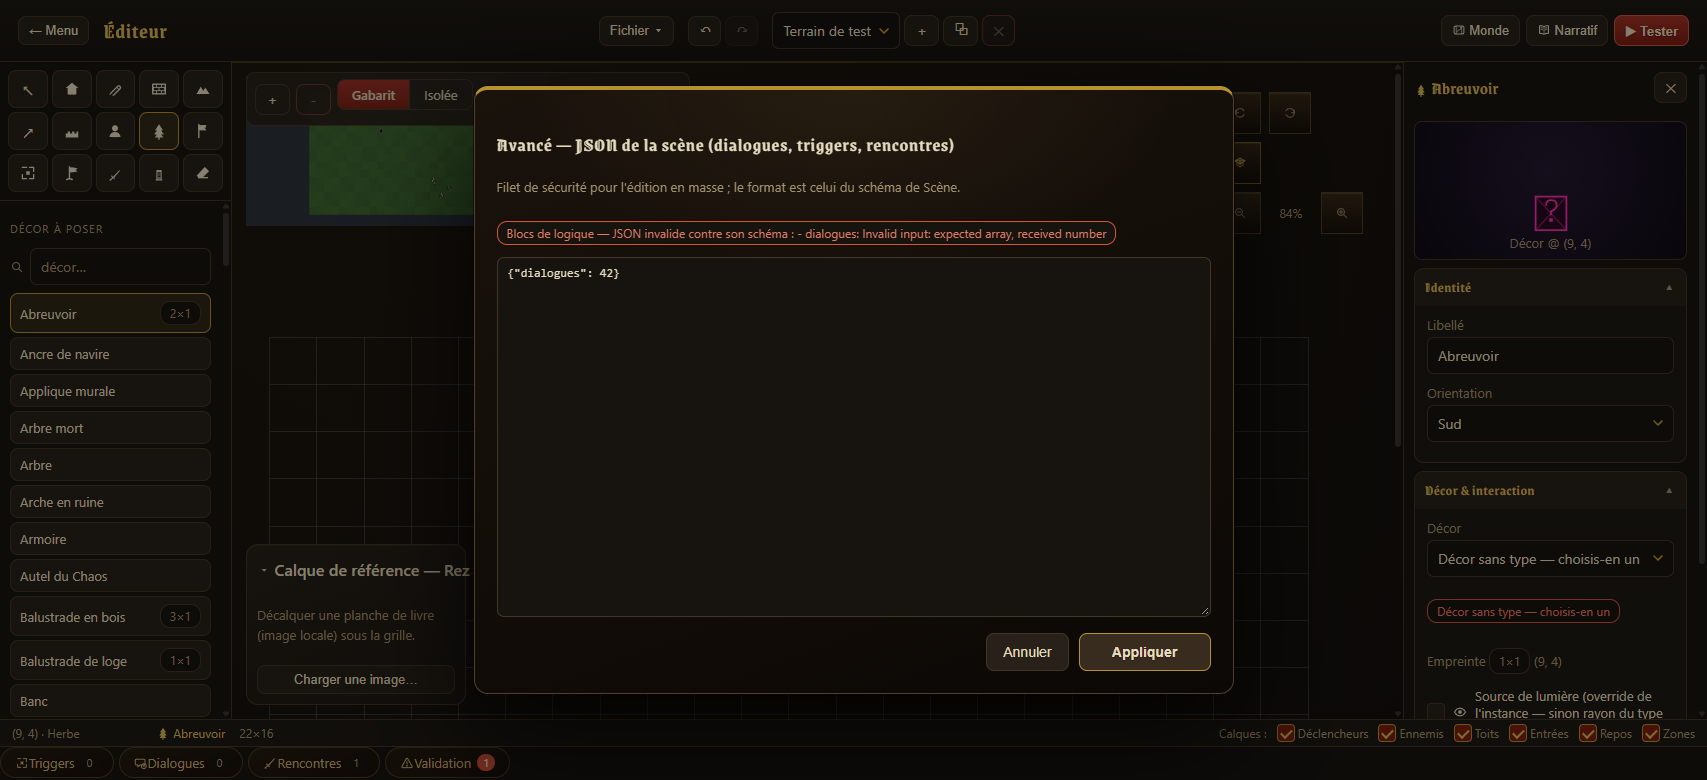
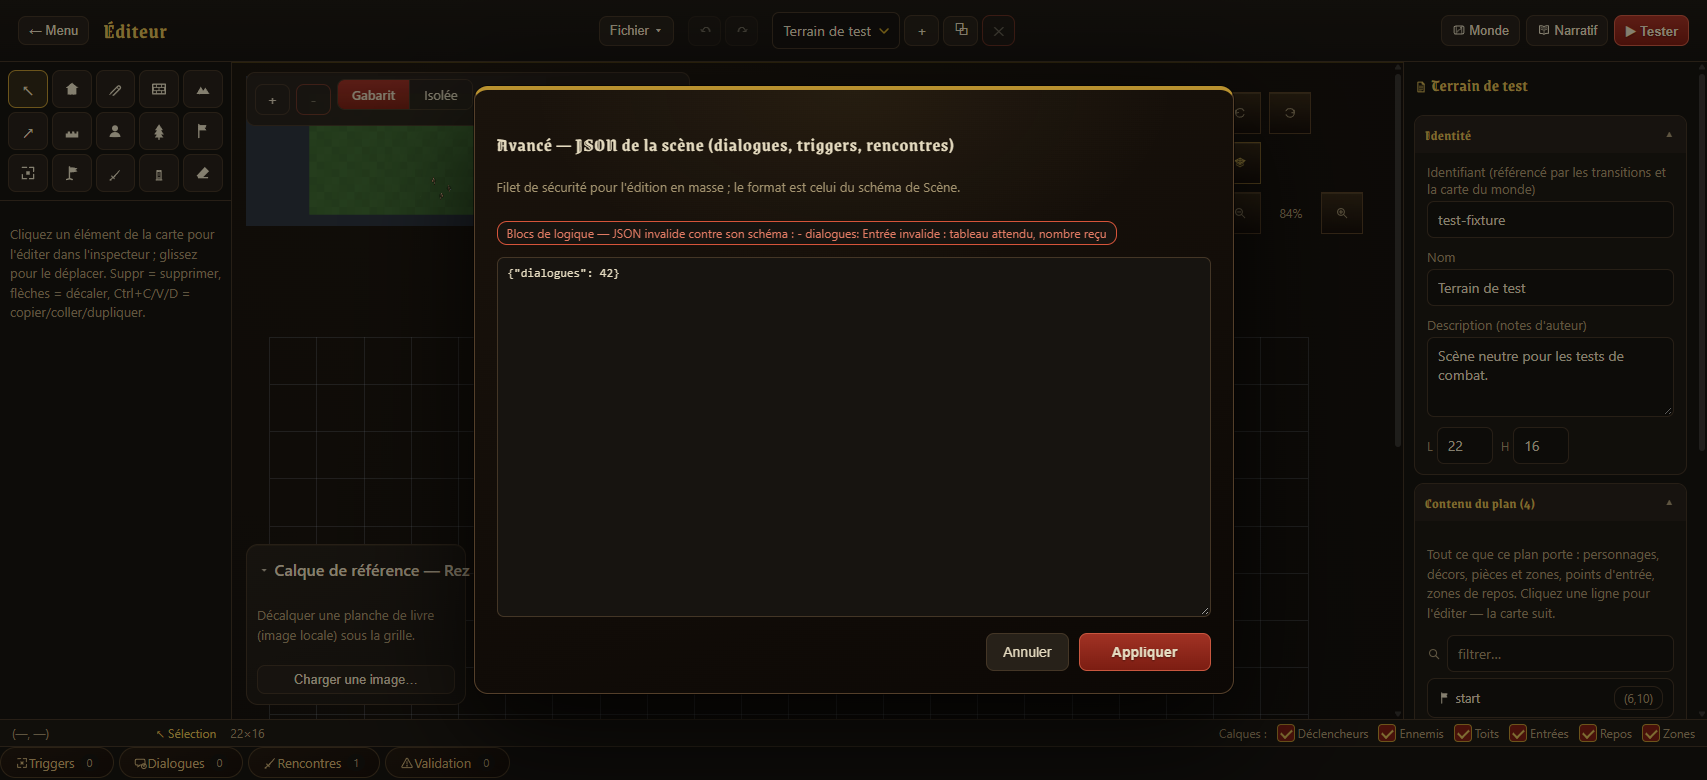
fix(schemas): refs #1588 — les refus de schéma parlent français, locale zod posée à la racine
La carte d'erreurs FR de zod (`z.locales.fr`) est posée UNE fois (`grammaire/locale-fr.ts`),
importée pour son effet par `grammaire/ref.ts`, racine mesurée du graphe d'exécution des schémas
(`clotureDImports` gagne `typesEffaces` : un `import type` est effacé à la compilation, il ne
porte aucune langue). Tout refus — Compendium au save, modale « Avancé », portes de projet — sort
en français, chemin et options attendues conservés. `gameOpSchema` REPORTE l'issue du payload
(`...issue`, code compris) au lieu de l'aplatir en `custom` ; seul son message gagne le préfixe
maison `GameOp « op » : `. Les attendus de test passent de la PHRASE de zod (propriété de la
locale) au CODE d'issue + la donnée nommée (`fautesCodees`) ; les commentaires qui recopiaient la
prose anglaise de la dépendance citent le code d'issue.

Garde de classe (`refus-en-francais.test.ts`, volet 3) : tout fichier de `src/data/schemas/**`
important zod en VALEUR atteint la locale (128 porteurs, plancher anti-faux-vert > 100 ; 127
orphelins si l'ancre est retirée). Volet « Avancé » mesuré sur son chemin réel
(`SCHEMA_BLOCS_AVANCES` + `formatZodError`, `Editor.tsx:910`).

Doc recette : cold-start du chunk éditeur au premier accès d'une session de dev (~20 s).
[…]

diff --git a/src/data/schemas/defs-scenes/projet-schema.test.ts b/src/data/schemas/defs-scenes/projet-schema.test.ts
@@ -60,6 +60,22 @@ const fautes = (valeur: unknown, schema: typeof projetSchema | typeof narratifSc
   return res.success ? [] : res.error.issues.map((i) => `${i.path.join('.')} :: ${i.message}`);
 };
 
+/**
+ * Chemin + CODE d'issue + la donnée que l'issue NOMME (clé en trop, options attendues, borne). C'est
+ * la forme STABLE d'un refus de la dépendance : le `message`, lui, appartient à la locale FR
+ * (`grammaire/locale-fr.ts`) et rote à chaque montée de zod. `fautes` reste la porte des messages
+ * MAISON, que le dépôt écrit et tient.
+ */
+const fautesCodees = (valeur: unknown, schema: typeof projetSchema = projetSchema) => {
+  const res = schema.safeParse(valeur);
+  expect(res.success).toBe(false);
+  return res.success ? [] : res.error.issues.map((i) => {
+    const brut = i as unknown as Record<string, unknown>;
+    const nommee = brut.keys ?? brut.values ?? brut.maximum ?? brut.minimum;
+    return `${i.path.join('.')} :: ${i.code}${nommee === undefined ? '' : ` ${JSON.stringify(nommee)}`}`;
+  });
+};
+
 describe('projetSchema — la FORME que voit le seam (avant normalizeScene/resolvePortRef)', () => {
   it('un projet minimal parse : les collections que `normalizeScene` comble sont OPTIONNELLES', () => {
     const res = projetSchema.safeParse(projet());
@@ -81,8 +97,8 @@ describe('projetSchema — la FORME que voit le seam (avant normalizeScene/resol
     const entite = (over: Jouet) => [sceneMinimale({ entities: [{ id: 'coffre', kind: 'prop', pos: { x: 1, y: 1 }, ref: 'coffre', ...over }] })];
 
     expect(projetSchema.safeParse(projet({ scenes: entite({ usable: { assise: true, actions: [{ id: 'fouiller', flow: FLOW, unique: true }] } }) })).success).toBe(true);
-    expect(fautes(projet({ scenes: entite({ interact: { flow: FLOW } }) })))
-      .toEqual(['scenes.0.entities.0 :: Unrecognized key: "interact"']);
+    expect(fautesCodees(projet({ scenes: entite({ interact: { flow: FLOW } }) })))
+      .toEqual(['scenes.0.entities.0 :: unrecognized_keys ["interact"]']);
     expect(fautes(projet({ scenes: entite({ usable: { actions: [{ id: 'fouiller', flow: FLOW }, { id: 'fouiller', flow: FLOW }] } }) })))
       .toEqual([expect.stringMatching(/^scenes\.0\.entities\.0\.usable :: usable\.actions : deux actions partagent le même `id`/)]);
     // `assise` ne se DÉSACTIVE pas par `false` : le fait est présent ou absent, jamais nié.
@@ -113,22 +129,22 @@ describe('projetSchema — la FORME que voit le seam (avant normalizeScene/resol
    * nominatif, au chemin — la garde ne dit pas « invalide », elle dit OÙ.
    */
   it('une pente de RÉFÉRENCE hors plage est REFUSÉE au chemin, aux DEUX bornes', () => {
-    const pente = (deg: number) => fautes(projet({ scenes: [sceneMinimale({ roofDefaults: { material: 'toit-ardoise', pitchDeg: deg, riseMaxStoreys: 1 } })] }));
-    expect(pente(90)).toEqual([`scenes.0.roofDefaults.pitchDeg :: Too big: expected number to be <=${PENTE_TOIT_DEG.max}`]);
-    expect(pente(0)).toEqual([`scenes.0.roofDefaults.pitchDeg :: Too small: expected number to be >=${PENTE_TOIT_DEG.min}`]);
+    const pente = (deg: number) => fautesCodees(projet({ scenes: [sceneMinimale({ roofDefaults: { material: 'toit-ardoise', pitchDeg: deg, riseMaxStoreys: 1 } })] }));
+    expect(pente(90)).toEqual([`scenes.0.roofDefaults.pitchDeg :: too_big ${PENTE_TOIT_DEG.max}`]);
+    expect(pente(0)).toEqual([`scenes.0.roofDefaults.pitchDeg :: too_small ${PENTE_TOIT_DEG.min}`]);
     expect(projetSchema.safeParse(projet({ scenes: [sceneMinimale({ roofDefaults: { material: 'toit-ardoise', pitchDeg: PENTE_TOIT_DEG.max, riseMaxStoreys: 1 } })] })).success).toBe(true);
   });
 
   it('une pente POSÉE sur un CORPS suit la même plage, au chemin du corps', () => {
     const corps = [{ id: 'corps-1', storeys: [], facades: [], masses: [], roofDefaults: { pitchDeg: 90 } }];
-    expect(fautes(projet({ scenes: [sceneMinimale({ architecture: corps })] }))).toEqual([
-      `scenes.0.architecture.0.roofDefaults.pitchDeg :: Too big: expected number to be <=${PENTE_TOIT_DEG.max}`,
+    expect(fautesCodees(projet({ scenes: [sceneMinimale({ architecture: corps })] }))).toEqual([
+      `scenes.0.architecture.0.roofDefaults.pitchDeg :: too_big ${PENTE_TOIT_DEG.max}`,
     ]);
   });
 
   it('une clé inconnue sur une scène est REFUSÉE (schéma STRICT)', () => {
-    expect(fautes(projet({ scenes: [sceneMinimale({ inventedField: 'poison' })] }))).toEqual([
-      'scenes.0 :: Unrecognized key: "inventedField"',
+    expect(fautesCodees(projet({ scenes: [sceneMinimale({ inventedField: 'poison' })] }))).toEqual([
+      'scenes.0 :: unrecognized_keys ["inventedField"]',
     ]);
   });
 
@@ -147,19 +163,19 @@ describe('projetSchema — la FORME que voit le seam (avant normalizeScene/resol
     expect(projetSchema.safeParse(avecStatbloc(statblocMinimal({ char: { 'capacite-de-combat': 30, M: 4, B: 5 } }))).success).toBe(true);
     expect(projetSchema.safeParse(avecStatbloc(statblocMinimal({ char: {} }))).success).toBe(true);
     // Une clé HORS canon est nommée, jamais avalée.
-    expect(fautes(avecStatbloc(statblocMinimal({ char: { ZZZZ: 7 } })))).toEqual([
-      'scenes.0.entities.0.statblock.char :: Unrecognized key: "ZZZZ"',
+    expect(fautesCodees(avecStatbloc(statblocMinimal({ char: { ZZZZ: 7 } })))).toEqual([
+      'scenes.0.entities.0.statblock.char :: unrecognized_keys ["ZZZZ"]',
     ]);
     // La coquille d'authoring la plus plausible — une Caractéristique mal orthographiée — mord aussi.
-    expect(fautes(avecStatbloc(statblocMinimal({ char: { endurence: 35 } })))).toEqual([
-      'scenes.0.entities.0.statblock.char :: Unrecognized key: "endurence"',
+    expect(fautesCodees(avecStatbloc(statblocMinimal({ char: { endurence: 35 } })))).toEqual([
+      'scenes.0.entities.0.statblock.char :: unrecognized_keys ["endurence"]',
     ]);
   });
 
   it('le statbloc embarqué DOIT s’annoncer : `type: \'statblock\'` (#1467 L1b)', () => {
     const { type: _sans, ...muet } = statblocMinimal();
-    expect(fautes(avecStatbloc(muet))).toEqual([
-      'scenes.0.entities.0.statblock.type :: Invalid input: expected "statblock"',
+    expect(fautesCodees(avecStatbloc(muet))).toEqual([
+      'scenes.0.entities.0.statblock.type :: invalid_value ["statblock"]',
     ]);
   });
 });
@@ -325,10 +341,10 @@ describe('projetSchema — les quatre sémantiques du seam, chacune NOMMÉE', ()
   });
 
   it('(e) le document DOIT s’annoncer : `type: \'projet\'`, et chaque scène EMBARQUÉE aussi (#1552)', () => {
-    expect(fautes(sans('type'))).toEqual(['type :: Invalid input: expected "projet"']);
+    expect(fautesCodees(sans('type'))).toEqual(['type :: invalid_value ["projet"]']);
     const { type: _muette, ...sceneMuette } = sceneMinimale();
-    expect(fautes(projet({ scenes: [sceneMuette] }))).toEqual([
-      'scenes.0.type :: Invalid input: expected "scene"',
+    expect(fautesCodees(projet({ scenes: [sceneMuette] }))).toEqual([
+      'scenes.0.type :: invalid_value ["scene"]',
     ]);
   });
 
@@ -403,7 +419,7 @@ describe('projetSchema — le document RÉEL, ses FK et son enveloppe (sondes du
       expect(fautes(sansCle(cle)), `« ${cle} » amputé`).toEqual([expect.stringMatching(new RegExp(`^${cle} :: `))]);
     }
     expect(fautes({ ...reel(), label: '' })).toEqual([expect.stringMatching(/^label :: /)]);
-    expect(fautes({ ...reel(), type: 'scene' })).toEqual(['type :: Invalid input: expected "projet"']);
+    expect(fautesCodees({ ...reel(), type: 'scene' })).toEqual(['type :: invalid_value ["projet"]']);
   });
 
   it('PROVENANCE réelle : la Diligence cite son folio ; sans provenance c’est rouge, les DEUX ensemble passent', () => {
@@ -414,12 +430,12 @@ describe('projetSchema — le document RÉEL, ses FK et son enveloppe (sondes du
   });
 
   it('SCEAU sur la donnée réelle : `schema` non courant, clé inconnue et scène muette sont refusés', () => {
-    expect(fautes({ ...reel(), schema: 6 })).toEqual([`schema :: Invalid input: expected ${SCHEMA_PROJET}`]);
+    expect(fautesCodees({ ...reel(), schema: 6 })).toEqual([`schema :: invalid_value [${SCHEMA_PROJET}]`]);
     // Chemin VIDE : la clé inconnue est rapportée à la RACINE du document.
-    expect(fautes({ ...reel(), champInconnu: 1 })).toEqual([' :: Unrecognized key: "champInconnu"']);
+    expect(fautesCodees({ ...reel(), champInconnu: 1 })).toEqual([' :: unrecognized_keys ["champInconnu"]']);
     const d = reel();
     const { type: _muette, ...sceneMuette } = (d.scenes as Jouet[])[0];
-    expect(fautes({ ...d, scenes: [sceneMuette] })).toEqual(['scenes.0.type :: Invalid input: expected "scene"']);
+    expect(fautesCodees({ ...d, scenes: [sceneMuette] })).toEqual(['scenes.0.type :: invalid_value ["scene"]']);
   });
 });
 

diff --git a/src/data/schemas/refus-en-francais.test.ts b/src/data/schemas/refus-en-francais.test.ts
@@ -1,0 +1,85 @@
+/**
+ * LANGUE des refus de schéma (#1588) — règle 4 : l'écran est en français, et un refus de schéma EST
+ * ce que l'auteur lit quand le Compendium ou l'éditeur rejettent sa saisie. La carte d'erreurs FR de
+ * zod est posée UNE fois (`grammaire/locale-fr.ts`).
+ *
+ * Trois volets, chacun sur le chemin RÉEL de son cas :
+ *  - la porte par FICHIER (`validateDataset`) — le refus que le Compendium rend au save ;
+ *  - la porte de la modale « Avancé » de l'éditeur (`SCHEMA_BLOCS_AVANCES` + `formatZodError`,
+ *    `src/ui/editor/Editor.tsx:910`), qui ne passe PAS par le registre de documents ;
+ *  - la GARDE DE CLASSE : tout fichier de `src/data/schemas/**` qui importe zod en VALEUR atteint la
+ *    locale transitivement. Sans elle, un def futur bâti sur `ref`/`avancement` seuls parlerait
+ *    anglais sans qu'aucun banc ne bouge.
+ *
+ * Le refus reste NOMINATIF : chemin du champ et options attendues sont conservés. Traduire n'est pas
+ * appauvrir.
+ */
+import { describe, it, expect } from 'vitest';
+import { readFileSync } from 'node:fs';
+import { resolve } from 'node:path';
+import { clotureDImports } from '../../../scripts/guards/lib/importGraph.mjs';
+import { listerArbre } from '../../../scripts/guards/lib/lister.mjs';
+import { validateDataset, formatZodError } from './validate';
+import { SCHEMA_BLOCS_AVANCES } from '../../ui/editor/Editor';
+import weatherJson from '../weather.json';
+
+/** Les mots que zod prononce en ANGLAIS, toutes familles d'issue confondues (sa locale `en`). */
+const ANGLAIS = /\bInvalid\b|\bToo small\b|\bToo big\b|\bUnrecognized keys?\b|\bexpected\b|\breceived\b/;
+
+const copie = <T,>(v: T): T => JSON.parse(JSON.stringify(v)) as T;
+
+describe('les refus de schéma parlent français (#1588)', () => {
+  it('porte par FICHIER — une OPTION hors énumération : refus français, au chemin, options conservées', () => {
+    const doc = copie(weatherJson) as { conditions: { id: string }[] };
+    doc.conditions[2].id = 'crachin';
+
+    const dit = validateDataset('weather.json', doc);
+
+    expect(dit, 'le document corrompu doit être refusé').not.toBeNull();
+    expect(dit).not.toMatch(ANGLAIS);
+    expect(dit).toContain('conditions.2.id');
+    // Les options attendues restent NOMMÉES : un refus qui dirait seulement « invalide » n'apprend rien.
+    expect(dit).toContain('"sec"');
+    expect(dit).toContain('"blizzard"');
+  });
+
+  /**
+   * La modale « Avancé » colle un JSON de trois blocs de logique. Le cas MESURÉ à l'écran le
+   * 2026-09-21 (`{"dialogues": 42}`) : c'est CETTE paire — `SCHEMA_BLOCS_AVANCES.safeParse` puis
+   * `formatZodError('Blocs de logique', …)` — que `saveAdvanced` pose dans `advError`, et rien
+   * d'autre ne transforme le texte entre là et le `role="alert"` (`Editor.tsx:1239`).
+   */
+  it('porte de la modale « Avancé » — un bloc au MAUVAIS TYPE : refus français, au chemin', () => {
+    const lu = SCHEMA_BLOCS_AVANCES.safeParse({ dialogues: 42 });
+
+    expect(lu.success, 'un bloc au mauvais type doit être refusé').toBe(false);
+    const dit = formatZodError('Blocs de logique', lu.error!);
+
+    expect(dit).not.toMatch(ANGLAIS);
+    expect(dit).toBe('Blocs de logique — JSON invalide contre son schéma :\n  - dialogues: Entrée invalide : tableau attendu, nombre reçu');
+  });
+
+  /**
+   * GARDE DE CLASSE — la question n'est pas « ces deux cas parlent-ils français ? » mais « un schéma
+   * PEUT-IL naître hors de la locale ? ». Réponse mesurée sur le graphe d'imports d'EXÉCUTION : un
+   * `import type` est effacé à la compilation et ne porte aucun effet de module, il ne compte donc
+   * pas comme une atteinte (`typesEffaces`, `scripts/guards/lib/importGraph.mjs`).
+   */
+  it('GARDE — tout fichier de `schemas/**` important zod en VALEUR atteint la locale', () => {
+    const PERIMETRE = 'src/data/schemas';
+    const LOCALE = `${PERIMETRE}/grammaire/locale-fr.ts`;
+    const ZOD_EN_VALEUR = /^[ \t]*import[ \t]+(?!type[ \t])[^\n]*from[ \t]*['"]zod['"]/m;
+
+    const porteurs = listerArbre(PERIMETRE, { filtre: (rel) => rel.endsWith('.ts') && !rel.includes('.test.') })
+      .map((rel) => `${PERIMETRE}/${rel}`)
+      .filter((f) => f !== LOCALE && ZOD_EN_VALEUR.test(readFileSync(resolve(f), 'utf8')));
+
+    expect(porteurs.length, 'périmètre vide = faux vert : la garde ne mesurerait rien').toBeGreaterThan(100);
+
+    // Cache PARTAGÉ : les 128 marches sont du MÊME régime (`typesEffaces`), et se recouvrent presque
+    // toutes — sans partage, chaque module de la grammaire est relu et re-résolu à chaque def.
+    const cache = new Map<string, string[] | null>();
+    const orphelins = porteurs.filter((f) => !clotureDImports([resolve(f)], { typesEffaces: true, cache }).has(LOCALE));
+    expect(orphelins).toEqual([]);
+  });
+});

diff --git a/src/data/schemas/grammaire/slots.test.ts b/src/data/schemas/grammaire/slots.test.ts
@@ -341,15 +341,17 @@ describe('OP_DEFS — payload strict par op, repli nominatif, rouge au SITE', ()
     expect(res.success).toBe(false);
     const issues = res.error!.issues;
     expect(issues.map((i) => i.path.join('.'))).toContain('amount');
-    expect(JSON.stringify(issues)).toMatch(/Invalid input/);
+    // Le CODE d'issue du payload est REPORTÉ (jamais aplati en `custom`) : c'est lui le contrat, la
+    // phrase appartient à la locale. Le préfixe `GameOp « heal » : ` est du code MAISON, lui stable.
+    expect(issues.map((i) => i.code)).toContain('invalid_union');
+    expect(JSON.stringify(issues)).toMatch(/GameOp « heal » : /);
   });
 
   it('une op TYPÉE à CLÉ EN TROP est refusée par la clé NOMMÉE, pas par un message générique', () => {
     const res = gameOpSchema.safeParse({ op: 'kill', zzz: 1 });
     expect(res.success).toBe(false);
-    const texte = JSON.stringify(res.error!.issues);
-    expect(texte).toMatch(/Unrecognized key/);
-    expect(texte).toMatch(/zzz/);
+    expect(res.error!.issues.map((i) => i.code)).toContain('unrecognized_keys');
+    expect(JSON.stringify(res.error!.issues)).toMatch(/zzz/);
   });
 
   it('la clé `op` SURCHARGÉE d’une `Condition` (comparateur) ne passe pas par ce rouge', () => {

diff --git a/src/state/campaignNarratif.test.ts b/src/state/campaignNarratif.test.ts
@@ -93,11 +93,11 @@ describe('paquet de campagne schema 3 — bloc narratif', () => {
   });
 
   it('(f) LÈVE (message clair NOMMANT le champ, pas TypeError) si un doc schema 3 natif n\'a pas de bloc narratif', () => {
-    expect(() => parseProject({ schema: 3, meta: { id: 'fixture', label: 'Fixture', version: 1 }, scenes: [scene] })).toThrow(/narratif: Invalid input: expected object/);
+    expect(() => parseProject({ schema: 3, meta: { id: 'fixture', label: 'Fixture', version: 1 }, scenes: [scene] })).toThrow(/narratif: Entrée invalide : objet attendu/);
   });
 
   it('(g) LÈVE si un registre du narratif n\'est pas un tableau', () => {
-    expect(() => parseProject({ schema: 3, meta: { id: 'fixture', label: 'Fixture', version: 1 }, scenes: [scene], narratif: { affaires: [], indices: [] } })).toThrow(/narratif\.presetsPnj: Invalid input: expected array/);
+    expect(() => parseProject({ schema: 3, meta: { id: 'fixture', label: 'Fixture', version: 1 }, scenes: [scene], narratif: { affaires: [], indices: [] } })).toThrow(/narratif\.presetsPnj: Entrée invalide : tableau attendu/);
   });
 
   it('(h) doc schema 3 avec un meta valide parse et restitue l’id, APLATI à la racine', () => {

diff --git a/src/ui/editor/ProjectModals.tsx b/src/ui/editor/ProjectModals.tsx
@@ -18,10 +18,11 @@ const CHAMPS_IDENTITE = ['id', 'label', 'versionContenu', 'type'];
 const REFUS_IDENTITE_RX = new RegExp(`^\\s*-\\s*(${CHAMPS_IDENTITE.join('|')}):`, 'm');
 
 /**
- * Traduit le refus de la porte en refus d'ÉCRAN. Un rapport de validation est un texte technique en
- * anglais : quand il porte sur l'IDENTITÉ, l'auteur lit d'abord ce qui lui arrive, en français
- * (règle 4), et le rapport reste consultable dessous. Les autres refus (contenu invalide) gardent
- * leur détail en message : ils nomment le champ à corriger.
+ * Traduit le refus de la porte en refus d'ÉCRAN. Un rapport de validation est un texte TECHNIQUE
+ * (chemins de schéma), même si sa langue est le français (`grammaire/locale-fr.ts`) : quand il porte
+ * sur l'IDENTITÉ, l'auteur lit d'abord ce qui lui arrive, en mots d'auteur, et le rapport reste
+ * consultable dessous. Les autres refus (contenu invalide) gardent leur détail en message : ils
+ * nomment le champ à corriger.
  */
 export function refusDOuverture(erreur: unknown): RefusOuverture {
   const brut = erreur instanceof Error ? erreur.message : 'Projet invalide';

diff --git a/src/data/terrain-roles-refine.test.ts b/src/data/terrain-roles-refine.test.ts
@@ -119,7 +119,11 @@ describe('terrains — rôles à porteur UNIQUE et glyphe d’authoring UNIQUE, 
     expect(dit, 'le refus ne cite pas `ascii` en chemin.').toMatch(/@\d+\.ascii/);
     expect(dit, 'le refus ne CITE pas la valeur refusée.').toContain('« ## »');
     expect(dit, 'le refus ne dit pas la règle en français (UN SEUL caractère).').toContain('UN SEUL caractère');
-    expect(dit, 'le refus sort le message zod ANGLAIS par défaut.').not.toContain('Too big');
+    // POSITIF de bout en bout : le message MAISON (`defs/terrains.ts`) occupe TOUTE la ligne de refus,
+    // donc aucun défaut de la dépendance ne s'y substitue. Une assertion négative sur la phrase de zod
+    // passerait à vide dès que zod la reformule.
+    expect(dit, 'le refus n’est pas le message maison de bout en bout.')
+      .toMatch(/@\d+\.ascii : glyphe d’authoring « ## » : UN SEUL caractère — /);
   });
 
   it('les deux rôles sont portés par des entrées DISTINCTES — le bord du monde n’est pas une absence', () => {

diff --git a/src/ui/editor/Editor.tsx b/src/ui/editor/Editor.tsx
@@ -71,8 +71,10 @@ export function ouCaCasse(erreur: unknown): string {
  *  schéma de Scène (`dialogueSchema`/`triggerSchema`/`encounterDefSchema`, `scene.ts:785-787`), pas
  *  une redite : ce que l'auteur colle est tenu à la même exigence que ce que le document porte. Le
  *  conteneur est réécrit parce que `sceneSchema.pick()` est refusé par zod sur un objet PORTANT DES
- *  RAFFINEMENTS, et un sous-ensemble de trois clés n'en hérite aucun. */
-const SCHEMA_BLOCS_AVANCES = z.strictObject({
+ *  RAFFINEMENTS, et un sous-ensemble de trois clés n'en hérite aucun.
+ *  EXPORTÉ pour que la porte de cette modale (`saveAdvanced` : ce schéma + `formatZodError`) soit
+ *  mesurable hors montage — c'est elle qui rend le refus que l'auteur lit (#1588). */
+export const SCHEMA_BLOCS_AVANCES = z.strictObject({
   dialogues: z.array(dialogueSchema).optional(),
   triggers: z.array(triggerSchema).optional(),
   encounters: z.array(encounterDefSchema).optional(),

diff --git a/src/data/schemas/grammaire/mecanique.ts b/src/data/schemas/grammaire/mecanique.ts
@@ -201,7 +201,10 @@ export const gameOpSchema: z.ZodType<GameOp> = z.looseObject({ op: z.string() })
   const payload = OP_DEFS[v.op];
   if (payload) {
     const res = payload.safeParse(v);
-    if (!res.success) for (const issue of res.error.issues) ctx.addIssue({ code: 'custom', path: issue.path, message: `GameOp « ${v.op} » : ${issue.message}` });
+    // L'issue du payload est REPORTÉE TELLE QUELLE, seul son `message` est préfixé du nom de l'op :
+    // aplatir son `code` en `'custom'` forcerait un consommateur à trier les refus d'op par leur
+    // PHRASE — donc par la locale (`grammaire/locale-fr.ts`), qui n'est pas un contrat.
+    if (!res.success) for (const issue of res.error.issues) ctx.addIssue({ ...issue, message: `GameOp « ${v.op} » : ${issue.message}` });
     return;
   }
   if (OPS_NON_TYPEES.includes(v.op)) { refusLoose(v, ctx); return; }

diff --git a/src/ui/compendium/crit-test-field.test.tsx b/src/ui/compendium/crit-test-field.test.tsx
@@ -10,8 +10,8 @@
  *
  * CE QU'IL MORD : la racine `FlowEditor` normalise ce qu'elle rend en `{kind:'seq', steps}`
  * (`asSteps`/`seqOf`, `src/ui/editor/FlowEditor.tsx`) — montée sur ce champ, le premier geste
- * d'édition ferait perdre son `kind` au nœud et le save serait refusé (« expected "test" »,
- * « Unrecognized key: "steps" »). Le champ compose donc `NoeudTestField`, le SOUS-éditeur de nœud
+ * d'édition ferait perdre son `kind` au nœud et le save serait refusé (issues `invalid_value` sur
+ * `kind`, `unrecognized_keys` sur `steps`). Le champ compose donc `NoeudTestField`, le SOUS-éditeur de nœud
  * `test` (`TestFields` + un `FlowEditor` par branche servie), celui-là même que `FlowEditor` monte
  * à l'intérieur d'un Flow de sort ; une rangée de Critique SERT ses deux branches (`critical.ts`),
  * elle les édite donc toutes les deux.

diff --git a/src/data/schemas/grammaire/locale-fr.ts b/src/data/schemas/grammaire/locale-fr.ts
@@ -1,0 +1,13 @@
+/**
+ * LANGUE des refus de schéma — règle 4 (« UI en français »), #1588. La carte d'erreurs FR livrée par
+ * zod (`z.locales.fr`) est posée UNE fois sur la configuration GLOBALE de la dépendance : tout refus
+ * produit par un `safeParse` la traverse, quel que soit le schéma et quel que soit l'appelant (écran,
+ * test, script de garde). Aucun site ne traduit, aucun message ne se réécrit.
+ *
+ * Le module est importé pour son EFFET par `grammaire/ref.ts`, RACINE du graphe : un banc tient que
+ * TOUT fichier de `src/data/schemas/**` important zod en VALEUR atteint ce module transitivement
+ * (`refus-en-francais.test.ts`). Charger un schéma, c'est avoir posé sa langue.
+ */
+import { z } from 'zod';
+
+z.config(z.locales.fr());

diff --git a/src/ui/compendium/CodexEdit.tsx b/src/ui/compendium/CodexEdit.tsx
@@ -436,7 +436,7 @@ export function CodexEdit({ categoryKey, label, id, onClose, isNew }: CodexEditP
       entries: arr,
       // Une entrée NEUVE part de ce que le def DÉTERMINE (`brouillonNeuf`) : le `type` d'enveloppe et,
       // pour un document discriminé, la valeur que le `select` affiche en tête — sinon l'écran promet
-      // un cas que l'état ne porte pas (union des champs présentés, refus « Invalid option » au save).
+      // un cas que l'état ne porte pas (union des champs présentés, refus `invalid_value` au save).
       initial: arr[index] ?? brouillonNeuf(file, arr as Record<string, unknown>[]),
       index,
       file,

diff --git a/src/state/worldMap.test.ts b/src/state/worldMap.test.ts
@@ -301,6 +301,6 @@ describe('parseProject — porte de schéma', () => {
 
   it('`encounters[].enemies` (forme ANTÉRIEURE) est refusé PAR SON NOM, jamais absorbé en silence', () => {
     const doc = { schema: 2, meta: metaAnterieure, scenes: [{ ...scene('s1'), encounters: [{ id: 'e1', enemies: [{ ref: 'gobelin', count: 2 }] }] }] };
-    expect(() => parseProject(doc)).toThrow(/scenes\.0\.encounters\.0: Unrecognized key: "enemies"/);
+    expect(() => parseProject(doc)).toThrow(/scenes\.0\.encounters\.0: Clé non reconnue : "enemies"/);
   });
 });
